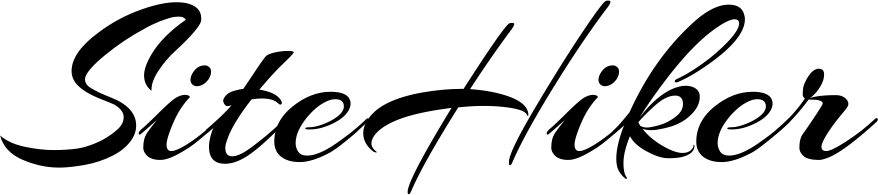
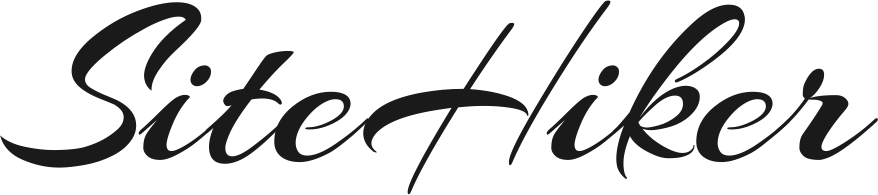
first try new theme

diff --git a/priv/static/css/style.css b/priv/static/css/style.css
@@ -1,3 +1,7 @@
+* {
+  color: #1a1a1a;
+}
+
 body,
 svg,
 #graph-container {
@@ -6,15 +10,16 @@ svg,
   position: absolute;
   overflow: hidden;
   margin: 0px;
-  /* background-color: black; */
+  background-color: #eaeaea;
 }
 
 #mapLabels {
+  background-color: transparent;
   position: absolute;
   top: 15px;
   left: 15px;
   z-index: 1;
-  color: white;
+  /* color: white; */
   font-family: sans-serif;
 }
 
@@ -23,7 +28,7 @@ svg,
   bottom: 15px;
   left: 15px;
   z-index: 1;
-  color: white;
+  /* color: white; */
   font-family: sans-serif;
 }
 
@@ -37,11 +42,25 @@ svg,
 }
 
 .round {
-  background-color: white;
+  /* background-color: white; */
   padding: 3px;
   border-radius: 100%;
-  width: 5%;
-  height: 5%;
+}
+
+a {
+  text-decoration: underline;
+}
+
+a:link {
+  color: #4d5d6c;
+}
+
+a:visited {
+  color: #4d5d6c;
+}
+
+a:hover {
+  color: #96a8b2;
 }
 
 #logo {
@@ -49,8 +68,8 @@ svg,
 }
 
 #backButton {
-  width: 20px;
-  height: 20px;
+  width: 5%;
+  height: 5%;
 }
 
 #landingLabelsContainer {
@@ -73,6 +92,11 @@ svg,
 
 input {
   text-transform: lowercase;
+  background-color: #dfe1e0;
+}
+
+button {
+  background-color: #dfe1e0;
 }
 
 #infoContainer {
@@ -83,21 +107,22 @@ input {
 }
 
 #infoPopup {
+  border-radius: 15px 15px 0px 0px;
+  background-color: #eaeaea;
   text-align: justify;
   position: relative;
   float: left;
   left: 50%;
   transform: translate(-50%, 0%);
-  background-color: white;
+  /* background-color: white; */
   /* border: 3px solid black; */
-  border-radius: 15px 15px 0px 0px;
   padding: 5px;
   overflow: auto;
   font-size: 1.75rem;
 }
 
 #helper {
-  color: red;
+  /* color: red; */
   padding-top: 10px;
   font-family: "Helvetica";
   font-size: 1.5rem;

diff --git a/priv/js/graph.js b/priv/js/graph.js
@@ -7,6 +7,15 @@ const {
   fetchSimilarSites,
 } = require('./serverApi')
 
+const COLORS = {
+  black: "#1a1a1a",
+  dark_blue: "#4d5d6c",
+  light_blue: "#96a8b2",
+  dark_grey: "#cecece",
+  light_grey: "#dfe1e0",
+  white: "#eaeaea",
+}
+
 const ICON_SIZE = 32 // px
 const HALF_ICON_SIZE = ICON_SIZE / 2
 
@@ -37,7 +46,7 @@ function initializeGraph() {
       .attr('y', HALF_ICON_SIZE / 2)
       .attr('width', HALF_ICON_SIZE)
       .attr('height', HALF_ICON_SIZE)
-      .attr('fill', 'white')
+      .attr('fill', COLORS.white)
       .attr('id', 'nodeBG')
     ui.append(backOfImage)
 
@@ -130,7 +139,7 @@ function highlightRelatedNodes(nodeId, isOn) {
     const linkUI = graphics.getLinkUI(link.id)
     if (linkUI) {
       // linkUI is a UI object created by graphics below
-      linkUI.attr('stroke', isOn ? 'red' : 'gray')
+      linkUI.attr('stroke', isOn ? COLORS.black : COLORS.light_blue)
       if (node.data.explored) {
         const linkedNodeUI = graphics.getNodeUI(node.id)
         linkedNodeUI.querySelector('#bgLabel').attr('visibility', isOn ? 'visible' : 'hidden')
@@ -241,7 +250,7 @@ function makeNodeClickHandler(params) {
                 .attr('y', y)
                 .attr('width', width)
                 .attr('height', height)
-                .attr('fill', '#fff')
+                .attr('fill', COLORS.white)
                 .attr('id', 'bgLabel')
                 .attr('visibility', 'hidden')
 

diff --git a/priv/js/app.js b/priv/js/app.js
@@ -19,9 +19,6 @@ window.onLandingPage = true
 let currentSite
 let renderer
 
-const siteLabel = document.querySelector("#siteLabel")
-const descriptionLabel = document.querySelector("#descriptionLabel")
-const icon = document.querySelector("#icon")
 const controlsInfo = document.querySelector("#controls")
 const siteSearch = document.querySelector("#siteSearch")
 // disable right click menu so it doesn't ruin the immersion
@@ -42,9 +39,6 @@ window.addEventListener("keydown", e => {
 function reset(siteName) {
   clearGraph()
   currentSite = siteName
-  siteLabel.textContent = ""
-  descriptionLabel.textContent = ""
-  icon.hidden = true
 
   addNode(siteName)
 
@@ -73,22 +67,4 @@ function goToLandingPage() {
 
   siteSearch.focus()
   siteSearch.value = ""
-}
-
-function setSiteLabel(text) {
-  siteLabel.href = `http://${text}`
-  siteLabel.textContent = text
-}
-
-function setDescriptionLabel(text) {
-  descriptionLabel.textContent = text
-}
-
-function setIcon(image) {
-  if (image === "") {
-    icon.hidden = true
-  } else {
-    icon.hidden = false
-    icon.src = image
-  }
 }

diff --git a/priv/static/index.html b/priv/static/index.html
@@ -20,9 +20,9 @@
   <meta http-equiv="X-UA-Compatible" content="ie=edge">
   <title>SiteHiker - A website recommender that works!</title>
   <link rel="icon" href="favicon.ico">
-  <link href="css/style.css" rel="stylesheet">
   <link rel="stylesheet" href="https://maxcdn.bootstrapcdn.com/bootstrap/3.3.7/css/bootstrap.min.css" integrity="sha384-BVYiiSIFeK1dGmJRAkycuHAHRg32OmUcww7on3RYdg4Va+PmSTsz/K68vbdEjh4u"
     crossorigin="anonymous">
+  <link href="css/style.css" rel="stylesheet">
   <meta name="description" content='Use SiteHiker to find a new favorite website by "hiking" around the neighborhood of one you already love. A website recommender that works!'>
 </head>
 
@@ -62,11 +62,11 @@
 
   <div id="mapLabels" hidden>
     <img src="images/back.svg" id="backButton" class="round">
-    <br>
+    <!-- <br>
     <img id="icon" class="round" />
     <a id="siteLabel" target="_blank" rel="noopener noreferrer" class="center-div"></a>
     <br>
-    <div id="descriptionLabel"></div>
+    <div id="descriptionLabel"></div> -->
   </div>
 
   <div id="graph-container"></div>
